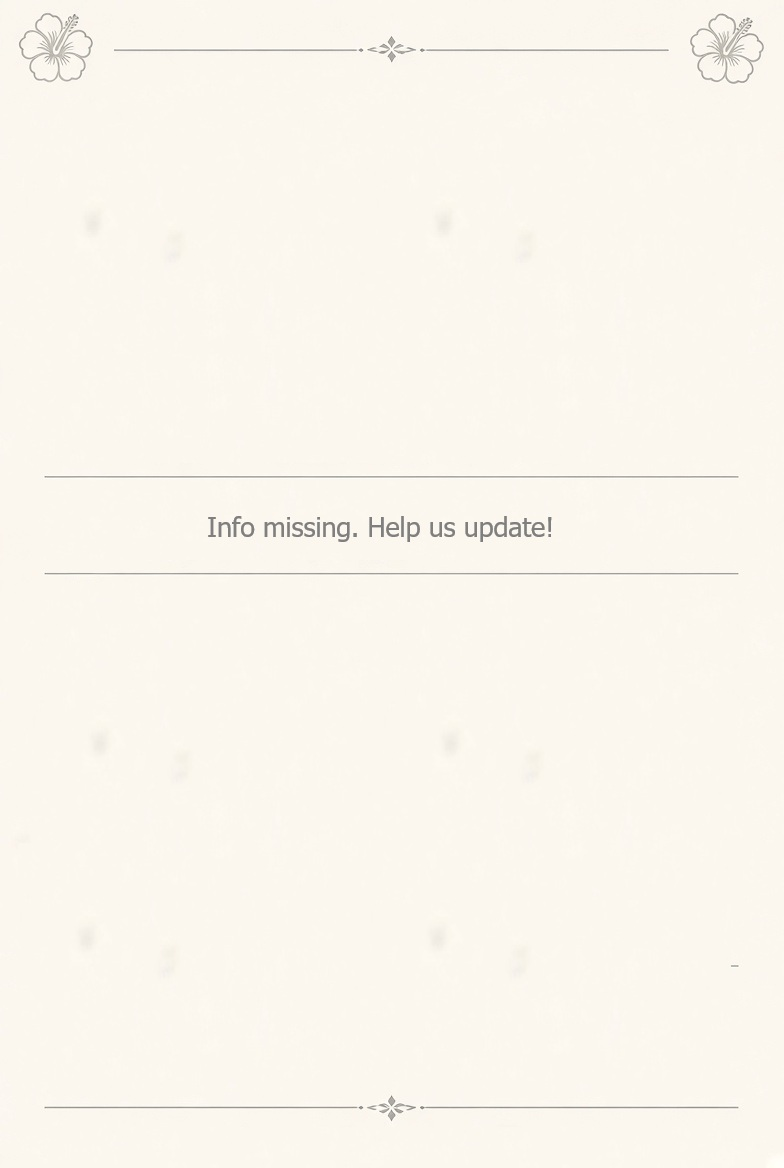
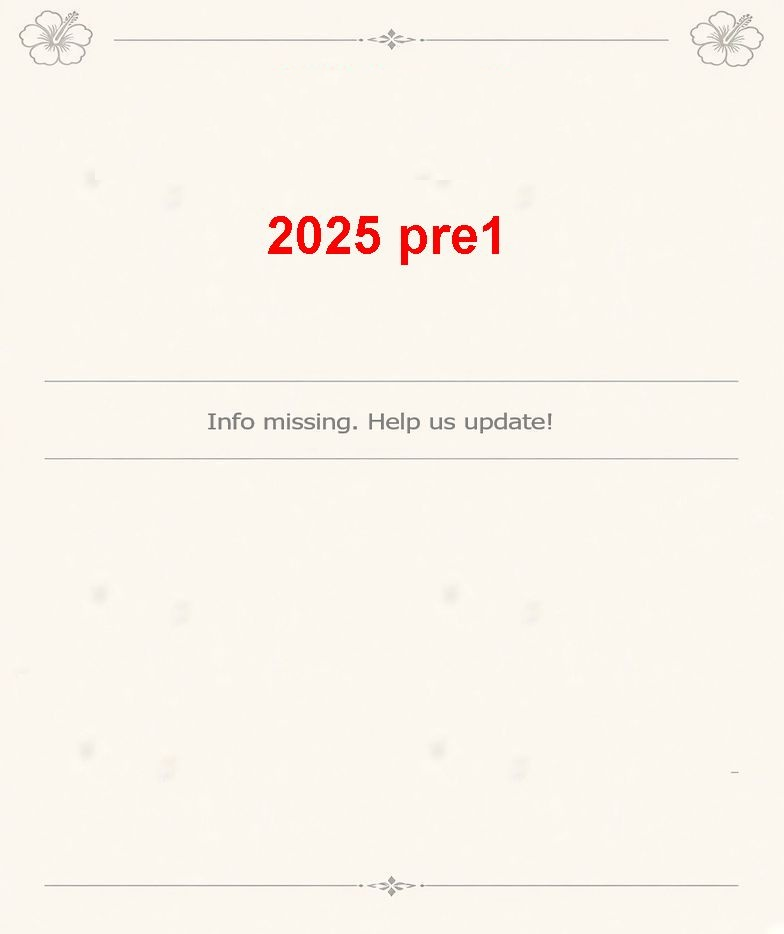
add gallary fix

Changed region(s): [[0.3367, 0.2173, 0.6429, 0.2794]]

diff --git a/src/data/festivals.ts b/src/data/festivals.ts
@@ -82,9 +82,9 @@ export const festivals: Festival[] = Array.from({ length: 15 }, (_, index) => {
       additionalImages: [
         "/pre/2026_pre1.jpg",
         "/pre/2026_pre2.jpg",
-        "/pre/help.jpg",
+        "/pre/2026_pre3.jpg",
       ],
-      additionalText: "　⚠Info missing. Help us update!",
+      additionalText: "Info missing. Help us update!",
       gallery: ["/gallery/2026.jpg"],
     };
   }
@@ -141,11 +141,11 @@ export const festivals: Festival[] = Array.from({ length: 15 }, (_, index) => {
       cashflow: "---円 / ---円 (確認中)",
       donation: "確認中",
       additionalImages: [
-        "/pre/help.jpg",
+        "/pre/2025_pre1.jpg",
         "/pre/2025_pre2.jpg",
-        "/pre/help.jpg",
+        "/pre/2025_pre3.jpg",
       ],
-      additionalText: "　⚠Info missing. Help us update!",
+      additionalText: "Info missing. Help us update!",
       gallery: ["/gallery/2025.jpg"],
     };
   }
@@ -202,9 +202,9 @@ export const festivals: Festival[] = Array.from({ length: 15 }, (_, index) => {
       additionalImages: [
         "/pre/2024_pre1.jpg",
         "/pre/2024_pre2.jpg",
-        "/pre/help.jpg",
+        "/pre/2024_pre3.jpg",
       ],
-      additionalText: "　⚠Info missing. Help us update!",
+      additionalText: "Info missing. Help us update!",
       gallery: ["/gallery/2024.jpg"],
     };
   }
@@ -255,15 +255,15 @@ export const festivals: Festival[] = Array.from({ length: 15 }, (_, index) => {
       description2:
         "後援：沖縄市, 沖縄市教育委員会, 沖縄市観光物産振興協会, コザ商店街連合, FMコザ, 株式会社ファンファーレ・ジャパン",
       visitors: "計測なし",
-      weather: "❓",
+      weather: "晴",
       cashflow: "---円 / ---円 (確認中)",
-      donation: "❓",
+      donation: "",
       additionalImages: [
         "/pre/2023_pre1.jpg",
-        "/pre/help.jpg",
+        "/pre/2023_pre2.jpg",
         "/pre/2023_children.jpg",
       ],
-      additionalText: "　⚠Info missing. Help us update!",
+      additionalText: "Info missing. Help us update!",
       gallery: ["/gallery/2023.jpg"],
     };
   }
@@ -314,16 +314,16 @@ export const festivals: Festival[] = Array.from({ length: 15 }, (_, index) => {
       description2:
         "後援：沖縄市, 琉球新報社, 沖縄タイムス社, 沖縄市センター商店街振興組合, コザ・インフォメーションセンター, まちづくりNPOコザまち社中, みやら製麺",
       visitors: "計測なし",
-      weather: "❓",
+      weather: "曇",
       cashflow: "---円 / ---円 (確認中)",
-      donation: "❓",
+      donation: "",
       additionalImages: [
         "/pre/2019_pre1.jpg",
         "/pre/2019_pre2.jpg",
-        "/pre/help.jpg",
         "/pre/2019_pre3.jpg",
-      ],
-      additionalText: "　⚠Info missing. Help us update!",
+        "/pre/2019_pre4.jpg",
+       ],
+      additionalText: "Info missing. Help us update!",
       gallery: ["/gallery/2019.jpg"],
     };
   }
@@ -378,14 +378,14 @@ export const festivals: Festival[] = Array.from({ length: 15 }, (_, index) => {
       visitors: "計測なし",
       weather: "晴",
       cashflow: "---円 / ---円 (確認中)",
-      donation: "❓",
+      donation: "",
       additionalImages: [
         "/pre/2018_pre1.jpg",
         "/pre/2018_pre2.jpg",
-        "/pre/help.jpg",
-        "/pre/help.jpg",
+        "/pre/2018_pre3.jpg",
+        "/pre/2018_pre4.jpg",
       ],
-      additionalText: "　⚠Info missing. Help us update!",
+      additionalText: "Info missing. Help us update!",
       gallery: ["/gallery/2018.jpg"],
     };
   }
@@ -434,14 +434,14 @@ export const festivals: Festival[] = Array.from({ length: 15 }, (_, index) => {
       visitors: "計測なし",
       weather: "晴",
       cashflow: "---円 / ---円 (確認中)",
-      donation: "❓",
+      donation: "",
       additionalImages: [
         "/pre/2017_pre1.jpg",
         "/pre/2017_pre2.jpg",
-        "/pre/help.jpg",
+        "/pre/2017_pre3.jpg",
         "/pre/2017_children.jpg",
       ],
-      additionalText: "　⚠Info missing. Help us update!",
+      additionalText: "Info missing. Help us update!",
       gallery: ["/gallery/2017.jpg"],
     };
   }
@@ -491,7 +491,7 @@ export const festivals: Festival[] = Array.from({ length: 15 }, (_, index) => {
       visitors: "計測なし",
       weather: "曇/晴",
       cashflow: "---円 / ---円 (確認中)",
-      donation: "❓",
+      donation: "",
       additionalImages: [
         "/pre/2016_pre1.jpg",
         "/pre/2016_pre2.jpg",
@@ -499,7 +499,7 @@ export const festivals: Festival[] = Array.from({ length: 15 }, (_, index) => {
         "/pre/2016_pre4.jpg",
         "/pre/2016_radio.jpg",
       ],
-      additionalText: "　⚠Info missing. Help us update!",
+      additionalText: "Info missing. Help us update!",
       gallery: ["/gallery/2016.jpg"],
     };
   }
@@ -555,14 +555,14 @@ export const festivals: Festival[] = Array.from({ length: 15 }, (_, index) => {
       visitors: "計測なし",
       weather: "晴/雨",
       cashflow: "---円 / ---円 (確認中)",
-      donation: "❓",
+      donation: "",
       additionalImages: [
         "/pre/2015_pre1.jpg",
         "/pre/2015_pre2.jpg",
         "/pre/2015_pre3.jpg",
         "/pre/2015_pre4.jpg",
       ],
-      additionalText: "　⚠Info missing. Help us update!",
+      additionalText: "Info missing. Help us update!",
       gallery: ["/gallery/2015.jpg"],
     };
   }
@@ -617,13 +617,13 @@ export const festivals: Festival[] = Array.from({ length: 15 }, (_, index) => {
       visitors: "計測なし",
       weather: "晴/雨",
       cashflow: "---円 / ---円 (確認中)",
-      donation: "❓",
+      donation: "",
       additionalImages: [
         "/pre/2014_pre1.jpg",
         "/pre/2014_pre2.jpg",
         "/pre/2014_pre3.jpg",
       ],
-      additionalText: "　⚠Info missing. Help us update!",
+      additionalText: "Info missing. Help us update!",
       gallery: ["/gallery/2014.jpg"],
     };
   }
@@ -674,13 +674,13 @@ export const festivals: Festival[] = Array.from({ length: 15 }, (_, index) => {
       visitors: "計測なし",
       weather: "雨",
       cashflow: "---円 / ---円 (確認中)",
-      donation: "❓",
+      donation: "",
       additionalImages: [
         "/pre/2013_pre1.jpg",
         "/pre/2013_pre2.jpg",
         "/pre/2013_pre3.jpg",
       ],
-      additionalText: "　⚠Info missing. Help us update!",
+      additionalText: "Info missing. Help us update!",
       gallery: ["/gallery/2013.jpg"],
     };
   }
@@ -698,26 +698,26 @@ export const festivals: Festival[] = Array.from({ length: 15 }, (_, index) => {
         "上原知子",
         "大城美佐子",
         "島袋辰也",
-        "シャンピン",
+        "シャンピン(カラハーイユニット)",
         "園田青年会",
         "大工哲弘",
         "玉栄政昭",
-        "❓チアキ",
+        "チアキ",
         "知名定男",
         "知念こずえ",
-        "❓照屋林賢",
+        "照屋林賢",
         "徳里隆行",
         "仲宗根創",
-        "❓名嘉睦稔",
+        "名嘉睦稔",
         "仲本興次",
-        "❓光",
+        "光",
         "前川守賢",
         "松田一利",
-        "❓宮沢和史",
+        "宮沢和史",
         "よなは徹",
         "饒辺愛子",
         "玉城満(司会)",
-        "❓藤木勇人(司会)",
+        "藤木勇人(司会)",
       ],
       description1:
         "主催：パルミラ通り会, コザ商店街連合会, てるりん祭実行委員会",
@@ -726,15 +726,15 @@ export const festivals: Festival[] = Array.from({ length: 15 }, (_, index) => {
       visitors: "計測なし",
       weather: "雨",
       cashflow: "---円 / ---円 (確認中)",
-      donation: "❓",
+      donation: "",
       additionalImages: [
         "/pre/2012_pre1.jpg",
-        "/pre/help.jpg",
+        "/pre/2012_pre2.jpg",
         "/pre/2012_pre3.jpg",
         "/pre/2012_pre4.jpg",
         "/pre/2012_pre5.jpg",
       ],
-      additionalText: "　⚠Info missing. Help us update!",
+      additionalText: "Info missing. Help us update!",
       gallery: ["/gallery/2012.jpg"],
     };
   }
@@ -773,12 +773,12 @@ export const festivals: Festival[] = Array.from({ length: 15 }, (_, index) => {
       visitors: "計測なし",
       weather: "雨",
       cashflow: "---円 / ---円 (確認中)",
-      donation: "❓",
+      donation: "",
       additionalImages: [
-        "/pre/help.jpg",
+        "/pre/2011_pre1.jpg",
         "/pre/2011_pre2.jpg",
       ],
-      additionalText: "　⚠Info missing. Help us update!",
+      additionalText: "Info missing. Help us update!",
       gallery: ["/gallery/2011.jpg"],
     };
   }
@@ -790,7 +790,7 @@ export const festivals: Festival[] = Array.from({ length: 15 }, (_, index) => {
       year: "2010",
       date: "年 4月4日(日)",
       time: "14:00～21:00",
-      venue: "沖縄市 パルミラ通り",
+      venue: "沖縄市 パルミラ通り ➡ 一番街商店街",
       performers: [
         "嘉手苅林次",
         "久場政行＆前粟蔵靖",
@@ -800,6 +800,7 @@ export const festivals: Festival[] = Array.from({ length: 15 }, (_, index) => {
         "ディアマンテス",
         "照屋林賢",
         "仲地のぶひで",
+        "仲西ゆうしん",
         "名嘉睦稔",
         "仲本興次",
         "西泊喜則",
@@ -818,13 +819,13 @@ export const festivals: Festival[] = Array.from({ length: 15 }, (_, index) => {
       visitors: "計測なし",
       weather: "曇",
       cashflow: "---円 / ---円 (確認中)",
-      donation: "❓",
+      donation: "",
       additionalImages: [
-        "/pre/help.jpg",
+        "/pre/2010_pre1.jpg",
         "/pre/2010_pre2.jpg",
         "/pre/2010_pre3.jpg",
       ],
-      additionalText: "　⚠Info missing. Help us update!",
+      additionalText: "Info missing. Help us update!",
       gallery: ["/gallery/2010.jpg"],
     };
   }
@@ -860,11 +861,11 @@ export const festivals: Festival[] = Array.from({ length: 15 }, (_, index) => {
       visitors: "計測なし",
       weather: "晴",
       cashflow: "---円 / ---円 (確認中)",
-      donation: "❓",
+      donation: "",
       additionalImages: [
-        "/pre/help.jpg"
+        "/pre/2009_pre.jpg"
       ],
-      additionalText: "　⚠Info missing. Help us update!",
+      additionalText: "Info missing. Help us update!",
       gallery: ["/gallery/2009.jpg"],
     };
   }
